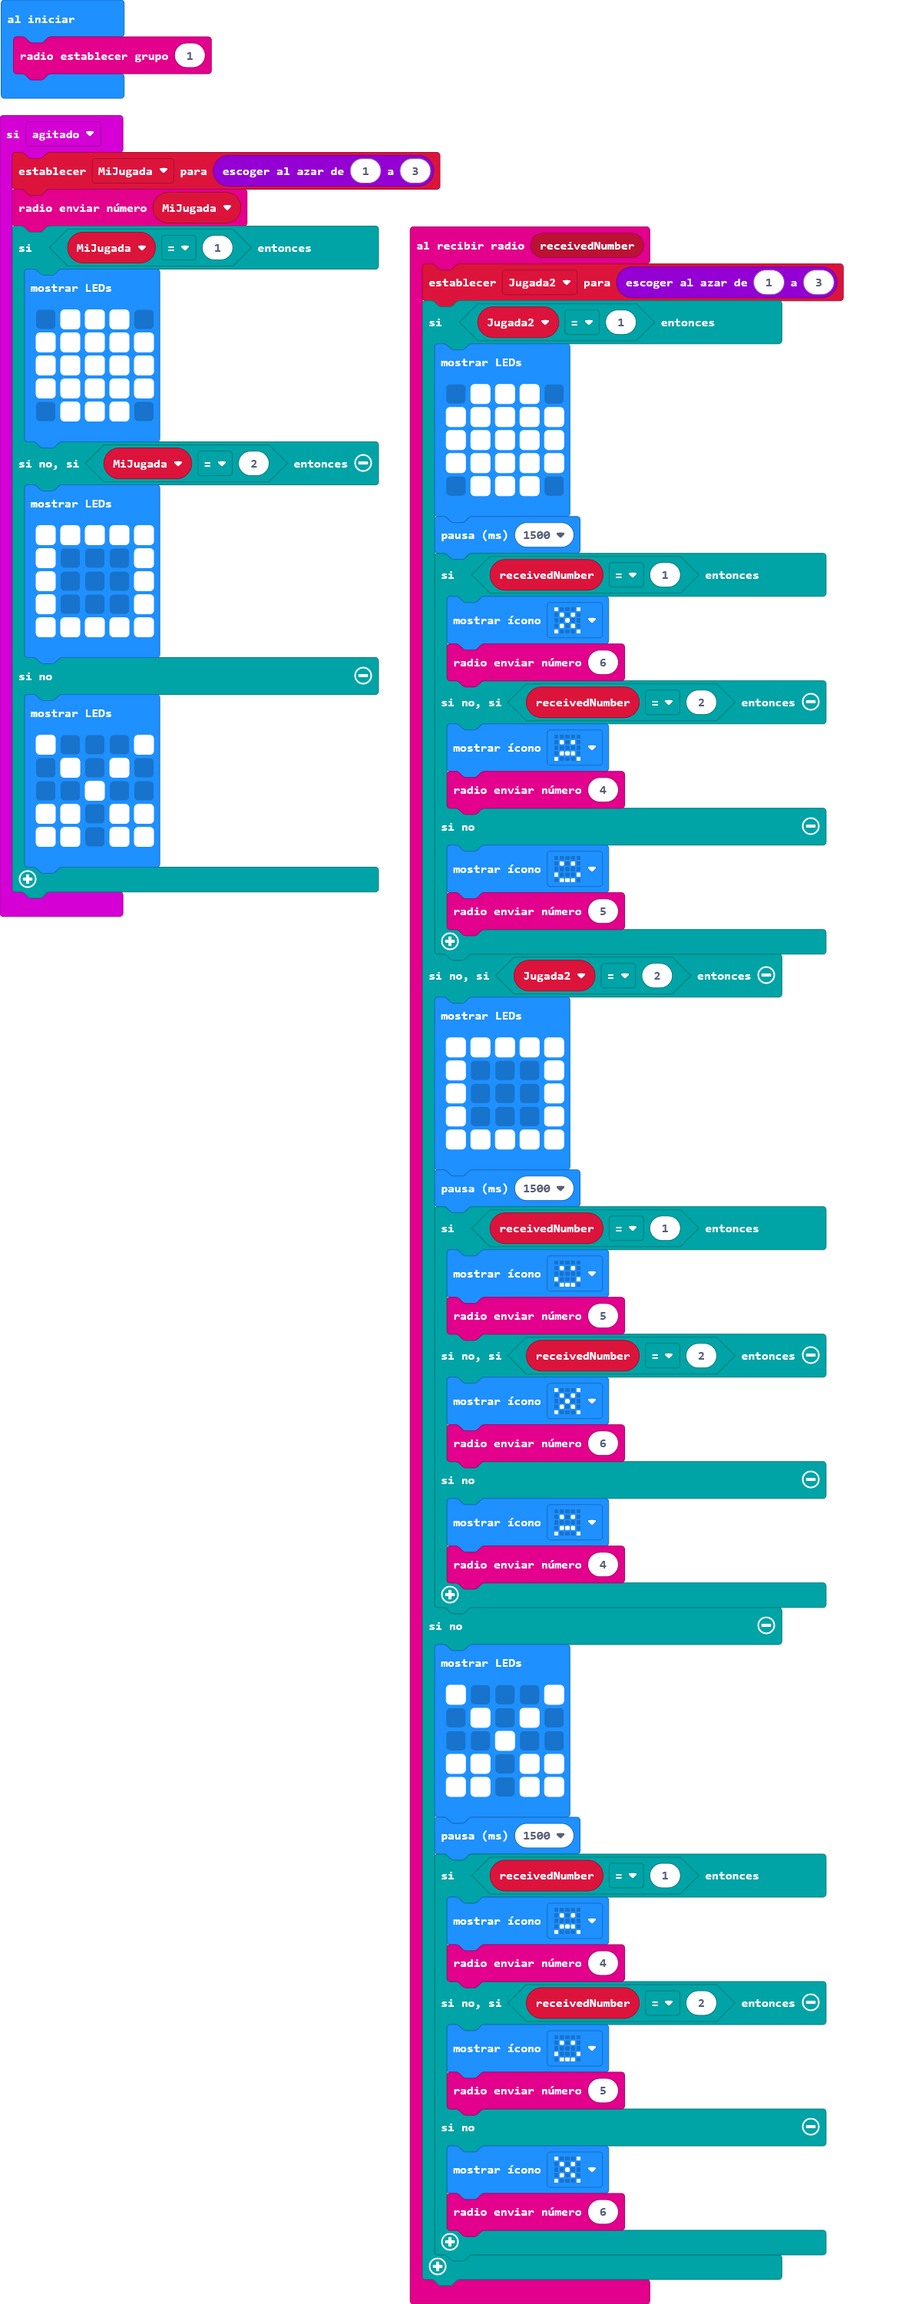
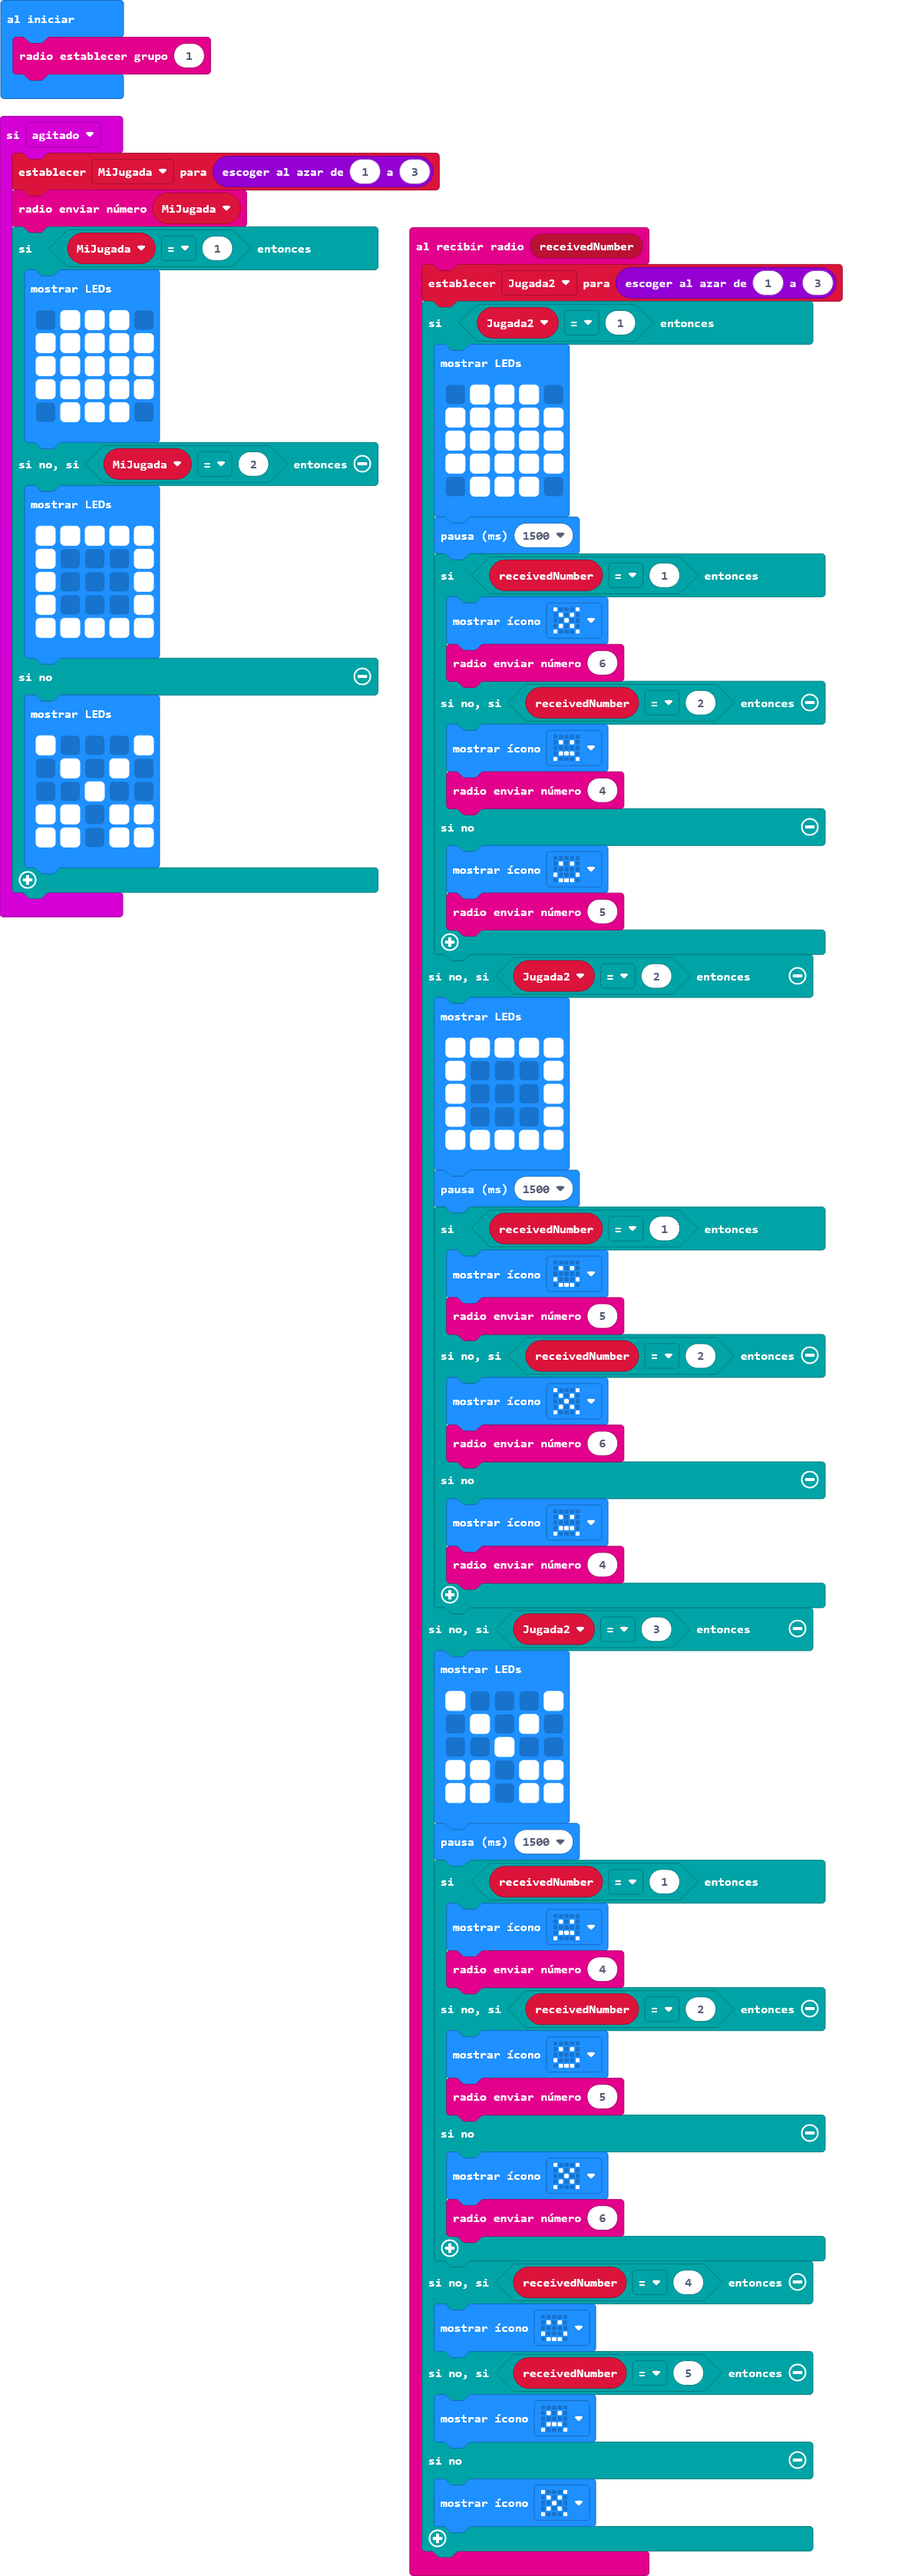
cambios

diff --git a/main.ts b/main.ts
@@ -38,7 +38,7 @@ radio.onReceivedNumber(function (receivedNumber) {
             basic.showIcon(IconNames.Sad)
             radio.sendNumber(4)
         }
-    } else {
+    } else if (Jugada2 == 3) {
         basic.showLeds(`
             # . . . #
             . # . # .
@@ -57,6 +57,12 @@ radio.onReceivedNumber(function (receivedNumber) {
             basic.showIcon(IconNames.No)
             radio.sendNumber(6)
         }
+    } else if (receivedNumber == 4) {
+        basic.showIcon(IconNames.Happy)
+    } else if (receivedNumber == 5) {
+        basic.showIcon(IconNames.Sad)
+    } else {
+        basic.showIcon(IconNames.No)
     }
 })
 input.onGesture(Gesture.Shake, function () {
